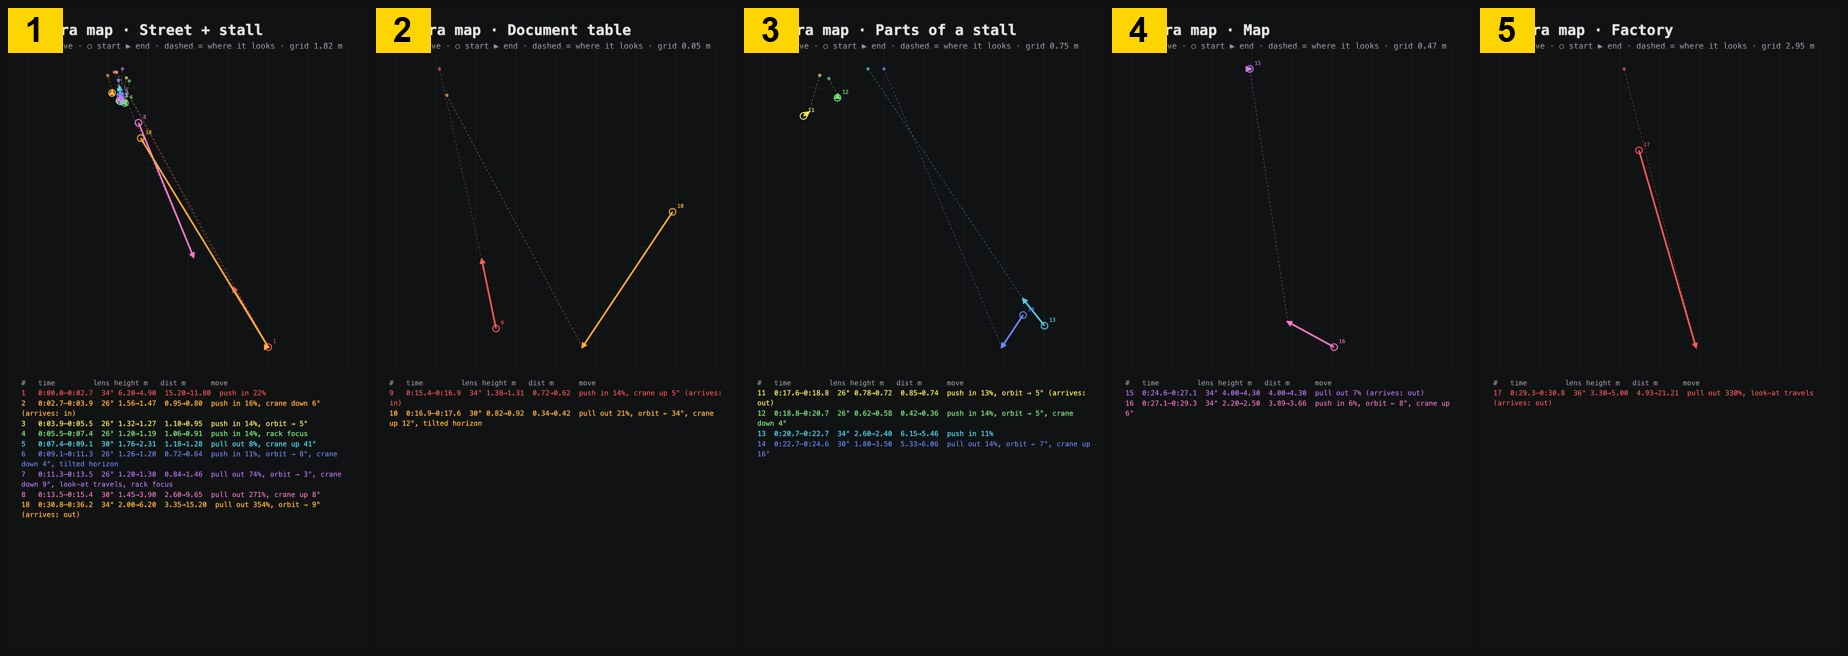
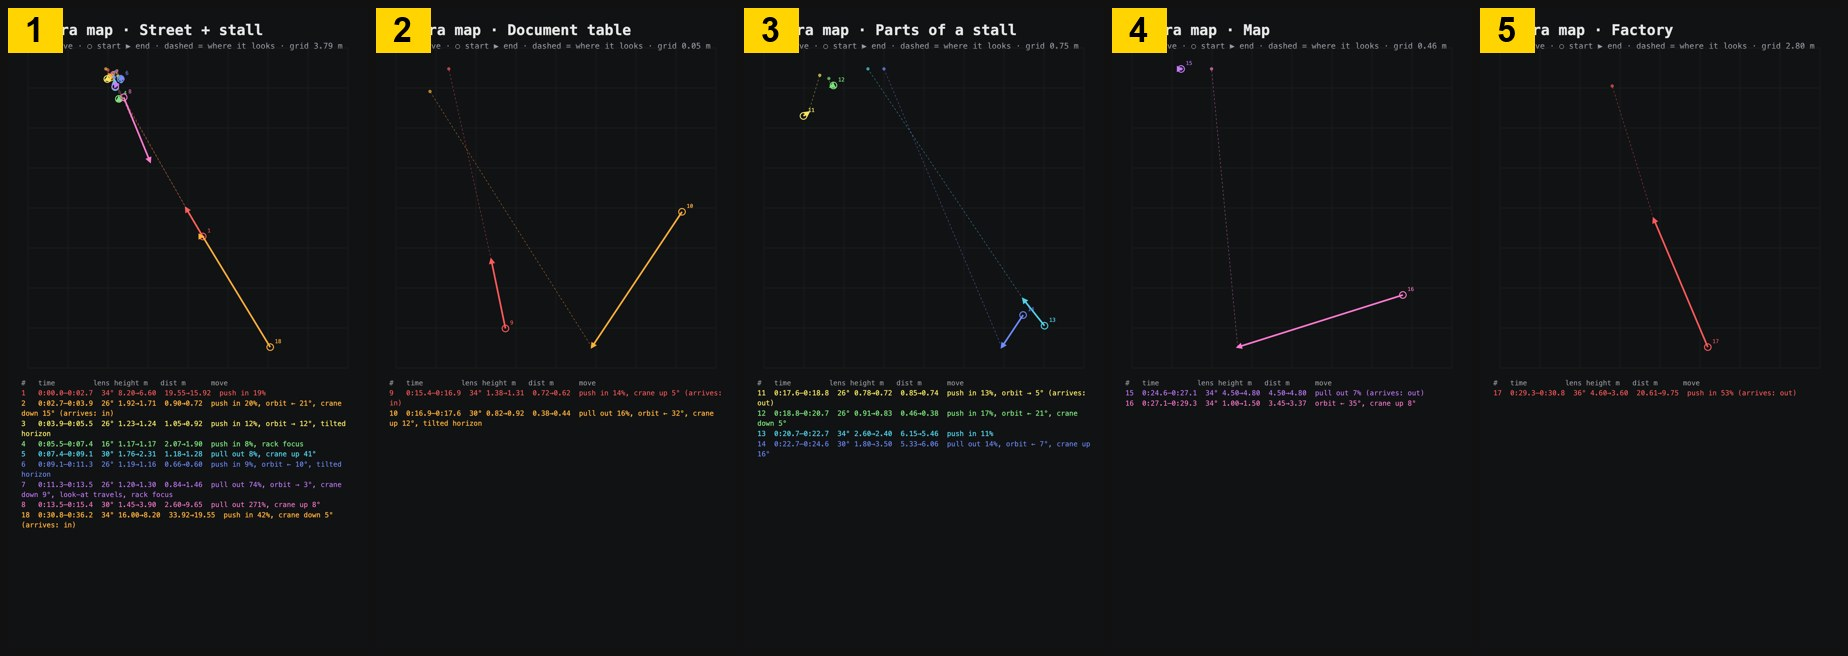
EX40 board v2: critic fixes (cart price wording + source, exposure on inserts, varied macro cameras, map clear of the counter, dive to the loop)

diff --git a/miki-explained/04_episodes/EX40_ramly-burger/build/film40.part.tsx b/miki-explained/04_episodes/EX40_ramly-burger/build/film40.part.tsx
@@ -32,7 +32,7 @@ const so40 = () => (SO40 ??= (() => {
     egg: rev([[0, 0], [0.058, 0], [0.061, 0.003], [0.057, 0.006], [0, 0.006]]),
   };
 })());
-const meat = (c = "#6a3f1d") => <StandardMaterial base_color={c} normal_map_texture={S("tex/grey_plaster_nor_gl_1k.jpg")} uv_transform={Affine2.fromScale([3, 3])} perceptual_roughness={0.72} />;
+const meat = (c = "#55301a") => <StandardMaterial base_color={c} normal_map_texture={S("tex/grey_plaster_nor_gl_1k.jpg")} uv_transform={Affine2.fromScale([3, 3])} perceptual_roughness={0.72} />;
 // a patty lying flat; tilt turns it up to face the camera (rx), glow = the yellow rim (accent)
 function Patty({ p, k, rx = 0, ry = 0, sc = 1, glowK = 0 }: { p: number[]; k: string; rx?: number; ry?: number; sc?: number; glowK?: number }) {
   return (
@@ -114,7 +114,7 @@ function Pack({ p, ry = 0, rx = 0, x = 0, k, sc = 1, glowK = 0 }: { p: number[];
 // the stall: the library cart (its coffee things hidden), a griddle, the yellow-and-maroon canopy with the logo, the tube light
 const CT = 1.057;                                 // cart top: Bottom_Cart max y in CoffeeCart_01.gltf
 function Stall({ o, ry = 0, real = 1, canopy = 1, lamp = 1, k = "st" }: { o: number[]; ry?: number; real?: number; canopy?: number; lamp?: number; k?: string }) {
-  const tint = mixHex("#4a4c54", "#ffffff", real), P: any[] = [];
+  const tint = mixHex("#4a4c54", "#b9bdc5", real), P: any[] = [];
   P.push(<Model key={k + "cart"} src={S("CoffeeCart_01/CoffeeCart_01.gltf")} position={[0, 0, 0]}>
     <StandardMaterial material="CoffeeCart_01_cart" base_color={tint} />
     <StandardMaterial material="CoffeeCart_01_props" base_color={Srgba.hex("#000000").with_alpha(0)} alpha_mode="Blend" />
@@ -191,8 +191,8 @@ function DocSet({ n }: { n: number }) {
   return (<>
     <Mesh3d transform={Transform.fromXyz(VD[0], FY - 0.02, VD[2])}><Cuboid half_size={[1.4, 0.02, 0.9]} /><StandardMaterial base_color="#1c1e22" normal_map_texture={S("tex/grey_plaster_nor_gl_1k.jpg")} perceptual_roughness={0.55} /></Mesh3d>
     <Card k="form" p={[VD[0], FY + 0.0013, VD[2]]} size={FS} tex="form" rx={-Math.PI / 2} rz={0.14} em={0.05}>
-      <WriteIn k="vfee" size={FS} cx={346 / 1024} cy={414 / 1448} w={0.5} h={128 / 1448} tex="v_fee" a={fee} />
-      <WriteIn k="vroy" size={FS} cx={346 / 1024} cy={604 / 1448} w={0.5} h={128 / 1448} tex="v_roy" a={roy} />
+      <WriteIn k="vfee" size={FS} cx={346 / 1024} cy={428 / 1448} w={0.5} h={128 / 1448} tex="v_fee" a={fee} />
+      <WriteIn k="vroy" size={FS} cx={346 / 1024} cy={618 / 1448} w={0.5} h={128 / 1448} tex="v_roy" a={roy} />
       <Under k="ufee" size={FS} u0={90 / 1024} u1={0.42} v={455 / 1448} a={ufee} />
       <Under k="uroy" size={FS} u0={90 / 1024} u1={0.42} v={645 / 1448} a={n === 10 ? on(52, 0.3, 0.12) : 0} />
     </Card>
@@ -246,7 +246,7 @@ const VF = [0, 0, -300];
 function FactorySet() {
   return (<>
     <Mesh3d transform={Transform.fromXyz(VF[0], -0.02, VF[2])}><Cuboid half_size={[60, 0.02, 60]} /><StandardMaterial base_color="#26282d" normal_map_texture={S("tex/asphalt_02_nor_gl_1k.jpg")} uv_transform={Affine2.fromScale([30, 30])} perceptual_roughness={0.7} /></Mesh3d>
-    <Model src={S("factory_a.glb")} position={VF as any} scale={[0.012, 0.012, 0.012]}><StandardMaterial base_color="#55585f" /></Model>
+    <Model src={S("factory_a.glb")} position={VF as any} scale={[0.012, 0.012, 0.012]}><StandardMaterial base_color="#3b3d44" base_color_texture={null as any} normal_map_texture={S("tex/grey_plaster_nor_gl_1k.jpg")} perceptual_roughness={0.9} /></Model>
     <Card k="fsg" p={[VF[0] + 0.3, 3.0, VF[2] + 2.75]} size={[3.2, 0.8]} tex="factory_sign" em={1.1 * on(91, 0.4, -0.3)} />
     <DirectionalLight color="#a7bdff" transform={Transform.fromXyz(VF[0] - 20, 18, VF[2] + 12).lookingAt(VF as any)} illuminance={2600} shadow_maps_enabled soft_shadow_size={0.5} />
     <SpotLight transform={Transform.fromXyz(VF[0] + 4, 9, VF[2] + 18).lookingAt([VF[0] + 0.7, 3, VF[2] + 2.7])} intensity={4e6 * (0.3 + 0.7 * on(91, 0.4, -0.3))} outer_angle={0.35} inner_angle={0.2} color="#ffe6c2" range={30} />
@@ -259,48 +259,48 @@ function FactorySet() {
 type Pose = { p: number[]; l: number[] };
 type Tag = { at: number[]; x: number; y: number; cap: string; big?: string; sub?: string; t: number };
 type Setup = { set: string; a: Pose; b: Pose; fov?: number; fs?: number; up?: number[]; tr?: "in" | "out" | "side"; fd?: () => number | null; tags?: Tag[];
-  count?: { v: () => string; unit: string; t?: number }; note?: string; src?: string };
+  count?: { v: () => string; unit: string; t?: number }; note?: string; src?: string; ex?: number };
 const fromT = (l: number[], dir: number[], d: number) => { const k = Math.hypot(dir[0], dir[1], dir[2]); return [l[0] + (dir[0] / k) * d, l[1] + (dir[1] / k) * d, l[2] + (dir[2] / k) * d]; };
 const dist3 = (a: number[], b: number[]) => Math.hypot(a[0] - b[0], a[1] - b[1], a[2] - b[2]);
 const C = (p: number[], l: number[]): Pose => ({ p, l });
 const num = (a: number, b: number, t0: number, t1: number, d = 0) => lerp(a, b, cl((T - t0) / (t1 - t0))).toFixed(d);
 const thou = (a: number, b: number, t0: number, t1: number) => Math.round(lerp(a, b, cl((T - t0) / (t1 - t0)))).toLocaleString("en-US");
 const SL = [SX + 0.1, 1.0, SZ];
-const P1A = C([SX + 7.0, 6.2, SZ + 12.5], SL);
+const P1A = C([SX + 8.6, 8.2, SZ + 15.5], [SX - 0.6, 1.5, SZ - 0.4]);
 const PKL = [PKP[0], CT + 0.12, PKP[2]], GC = [SX + 0.19, CT, SZ + 0.38], BGL = [BGP[0], CT + 0.045, BGP[2]];
-const FEE = [VD[0] - 0.01, FY, VD[2] - 0.05], ROY = [VD[0], FY, VD[2] - 0.015];
+const FEE = [VD[0] - 0.01, FY, VD[2] - 0.05], ROY = [VD[0] - 0.035, FY, VD[2] - 0.02];
 const SRC_JG = "price: Jaya Grocer online, 13 Nov 2026", SRC_BL = "source: CompareHero · franchise-info.my (blogs)", SRC_VP = "Vulcan Post, 19 Nov 2020 (company figures)";
 const SETUPS: Setup[] = [
-  /* 1 */ { set: "s", a: P1A, b: C([SX + 5.4, 4.9, SZ + 9.8], SL), fov: 34, fs: 8 },
-  /* 2 */ { set: "s", tr: "in", a: C(fromT(G, [0.25, 0.6, 1], 0.95), G), b: C(fromT([G[0], G[1] + 0.05, G[2]], [0.3, 0.48, 1], 0.8), [G[0], G[1] + 0.05, G[2]]), fov: 26, fs: 2.8 },
-  /* 3 */ { set: "s", a: C(fromT(PKL, [-0.3, 0.14, 1], 1.1), PKL), b: C(fromT(PKL, [-0.2, 0.1, 1], 0.95), PKL), fov: 26, fs: 2.4,
+  /* 1 */ { set: "s", a: P1A, b: C([SX + 7.0, 6.6, SZ + 12.8], [SX - 0.4, 1.4, SZ - 0.3]), fov: 34, fs: 8 },
+  /* 2 */ { set: "s", tr: "in", a: C(fromT(G, [0.35, 1.6, 0.5], 0.9), G), b: C(fromT([G[0], G[1] + 0.04, G[2]], [0.2, 1.15, 0.8], 0.72), [G[0], G[1] + 0.04, G[2]]), fov: 26, fs: 4, ex: 0.45 },
+  /* 3 */ { set: "s", a: C(fromT(PKL, [-1, 0.05, 0.3], 1.05), PKL), b: C(fromT(PKL, [-1, 0.08, 0.55], 0.92), PKL), fov: 26, fs: 2.4, up: [0.08, 1, 0], ex: 0.45,
             tags: [{ at: [PKP[0] - 0.05, CT + 0.2, PKP[2]], x: 70, y: 1330, cap: "RAMLY BURGER AYAM", big: "6 patties", sub: "420 g pack", t: W(15) }] },
-  /* 4 */ { set: "s", a: C([SX + 0.48, CT + 0.14, SZ + 1.4], [SX + 0.66, CT + 0.08, SZ + 0.36]), b: C([SX + 0.53, CT + 0.13, SZ + 1.3], [SX + 0.68, CT + 0.07, SZ + 0.4]), fov: 26, fs: 2.2, src: SRC_JG,
-            fd: () => lerp(0.98, 0.76, on(19, 0.4, -0.25)), count: { v: () => "RM" + num(0, 9.4, W(19) - 0.3, W(19) + 0.3, 2), unit: "6 chicken patties, 420 g", t: W(19) - 0.35 } },
+  /* 4 */ { set: "s", a: C([SX + 0.64, CT + 0.11, SZ + 2.45], [SX + 0.63, CT + 0.08, SZ + 0.38]), b: C([SX + 0.64, CT + 0.11, SZ + 2.3], [SX + 0.63, CT + 0.08, SZ + 0.4]), fov: 16, fs: 2.8, ex: 0.45, src: SRC_JG,
+            fd: () => lerp(2.1, 1.88, on(19, 0.4, -0.25)), count: { v: () => "RM" + num(0, 9.4, W(19) - 0.3, W(19) + 0.3, 2), unit: "6 chicken patties, 420 g", t: W(19) - 0.35 } },
   /* 5 */ { set: "s", a: C([GC[0] + 0.1, CT + 0.7, GC[2] + 0.95], GC), b: C([GC[0] + 0.04, CT + 1.25, GC[2] + 0.28], GC), fov: 30, fs: 8, src: SRC_JG, up: [0, 1, 0],
-            count: { v: () => "RM" + num(9.4, 1.57, W(24) - 0.2, W(24) + 0.4, 2), unit: "each: RM9.40 ÷ 6", t: W(23) }, note: "shop price; stalls buy wholesale" },
-  /* 6 */ { set: "s", a: C(fromT(BGL, [0.12, 0.22, 1], 0.72), BGL), b: C(fromT(BGL, [0.26, 0.16, 1], 0.64), BGL), fov: 26, fs: 4, up: [-0.08, 1, 0],
+            count: { v: () => "RM" + num(9.4, 1.57, W(24) - 0.2, W(24) + 0.4, 2), unit: "each: RM9.40 ÷ 6", t: W(23) }, note: "shop price; stalls buy wholesale", ex: 0.42 },
+  /* 6 */ { set: "s", a: C(fromT(BGL, [1, 0.14, 0.3], 0.66), BGL), b: C(fromT(BGL, [1, 0.1, 0.5], 0.6), BGL), fov: 26, fs: 4, up: [-0.1, 1, 0], ex: 0.45,
             tags: [{ at: [BGP[0] + 0.05, CT + 0.034, BGP[2] + 0.03], x: 640, y: 1360, cap: "EGG", t: W(30) }, { at: [BGP[0] - 0.04, CT + 0.043, BGP[2] + 0.04], x: 70, y: 1300, cap: "CABBAGE", t: W(31) }, { at: [BGP[0], CT + 0.05, BGP[2] + 0.02], x: 640, y: 1250, cap: "SAUCE", t: W(33) }] },
   /* 7 */ { set: "s", a: C([SX + 0.3, CT + 0.14, SZ + 1.25], [SX + 0.4, CT + 0.08, SZ + 0.42]), b: C([SX + 0.28, CT + 0.24, SZ + 1.3], [SX + 0.37, 1.42, SZ - 0.15]), fov: 26, fs: 2.4,
-            fd: () => lerp(0.84, 1.48, on(38, 0.5, -0.1)), tags: [{ at: [SGN[0], CT + 0.09, SGN[2]], x: 620, y: 1330, cap: "AT THE STALL", big: "RM5 or more", sub: "menu: an illustration", t: W(37) }] },
+            fd: () => lerp(0.84, 1.48, on(38, 0.5, -0.1)), ex: 0.45, tags: [{ at: [SGN[0], CT + 0.09, SGN[2]], x: 620, y: 1330, cap: "AT THE STALL", big: "RM5 or more", t: W(37) }] },
   /* 8 */ { set: "s", a: C([SX + 1.1, 1.45, SZ + 2.3], [SX, 0.95, SZ]), b: C([SX + 3.6, 3.9, SZ + 8.4], [SX, 0.8, SZ]), fov: 30, fs: 8 },
   /* 9 */ { set: "d", tr: "in", a: C(fromT(FEE, [0.12, 1, 0.55], 0.72), FEE), b: C(fromT(FEE, [0.1, 1, 0.45], 0.62), FEE), fov: 34, fs: 5.6, up: [0.15, 0, -1], src: SRC_BL, note: "form: an illustration" },
   /* 10 */ { set: "d", a: C([VD[0] + 0.3, FY + 0.07, VD[2] + 0.14], ROY), b: C([VD[0] + 0.18, FY + 0.17, VD[2] + 0.32], ROY), fov: 30, fs: 2.8, up: [0.14, 1, 0], src: SRC_BL },
   /* 11 */ { set: "v", tr: "out", a: C(fromT([PK2[0], STH + 0.1, PK2[2]], [-0.4, 0.3, 1], 0.85), [PK2[0], STH + 0.1, PK2[2]]), b: C(fromT([PK2[0], STH + 0.1, PK2[2]], [-0.3, 0.24, 1], 0.74), [PK2[0], STH + 0.1, PK2[2]]), fov: 26, fs: 2.8, src: SRC_BL,
             tags: [{ at: [PK2[0], STH + 0.2, PK2[2]], x: 640, y: 1330, cap: "1 · PATTIES", sub: "from Ramly", t: W(56) }] },
-  /* 12 */ { set: "v", a: C(fromT([LIC[0], STH + 0.03, LIC[2]], [0.45, 0.4, 1], 0.42), [LIC[0], STH + 0.03, LIC[2]]), b: C(fromT([LIC[0], STH + 0.03, LIC[2]], [0.55, 0.32, 1], 0.36), [LIC[0], STH + 0.03, LIC[2]]), fov: 26, fs: 2.8, src: SRC_BL,
+  /* 12 */ { set: "v", a: C(fromT([LIC[0], STH + 0.03, LIC[2]], [0.2, 1, 0.3], 0.46), [LIC[0], STH + 0.03, LIC[2]]), b: C(fromT([LIC[0], STH + 0.03, LIC[2]], [0.1, 1, 0.45], 0.38), [LIC[0], STH + 0.03, LIC[2]]), fov: 26, fs: 4, up: [0.25, 0, -1], src: SRC_BL,
             tags: [{ at: [LIC[0], STH + 0.05, LIC[2]], x: 70, y: 1330, cap: "2 · HAWKER LICENCE", sub: "from your local council", t: W(60) }], note: "card: an illustration" },
   /* 13 */ { set: "v", a: C([VV[0] + 3.6, 2.6, VV[2] + 4.8], [VV[0] + 0.25, 0.7, VV[2]]), b: C([VV[0] + 3.2, 2.4, VV[2] + 4.3], [VV[0] + 0.3, 0.7, VV[2]]), fov: 34, fs: 5.6, src: SRC_BL,
-            tags: [{ at: [CART2[0] + 0.05, 0.62, CART2[2] + 0.53], x: 70, y: 1330, cap: "3 · A CART", big: "RM2,000–6,000", sub: "start-up estimates", t: W(70) }] },
+            tags: [{ at: [CART2[0] + 0.3, CT + 0.01, CART2[2] + 0.4], x: 70, y: 1330, cap: "3 · A CART", big: "a few thousand ringgit", sub: "blog and forum estimates: RM2,000–6,000", t: W(70) }] },
   /* 14 */ { set: "v", a: C([VV[0] + 3.2, 1.8, VV[2] + 4.6], [VV[0] + 0.55, 1.35, VV[2]]), b: C([VV[0] + 2.8, 3.5, VV[2] + 5.2], [VV[0] + 0.6, 1.3, VV[2]]), fov: 30, fs: 5.6,
             tags: [{ at: [CART2[0] + 0.05, 2.1, CART2[2] + 0.72], x: 70, y: 1330, cap: "= A RAMLY BURGER STALL", t: W(76) }] },
-  /* 15 */ { set: "m", tr: "out", a: C([MX(109.2), 4.0, MZ(4.0) + 0.001], [MX(109.2), 0, MZ(4.0)]), b: C([MX(109.2), 4.3, MZ(4.0) + 0.001], [MX(109.2), 0, MZ(4.0)]), up: [-1, 0, -0.12], fov: 34, fs: 11, src: SRC_VP,
+  /* 15 */ { set: "m", tr: "out", a: C([MX(109.2) - 0.35, 4.5, MZ(4.0) + 0.001], [MX(109.2) - 0.35, 0, MZ(4.0)]), b: C([MX(109.2) - 0.35, 4.8, MZ(4.0) + 0.001], [MX(109.2) - 0.35, 0, MZ(4.0)]), up: [-1, 0, -0.12], fov: 34, fs: 11, src: SRC_VP,
             count: { v: () => "~" + thou(0, 30000, W(78) - 0.3, W(79) + 0.3), unit: "people selling Ramly burgers", t: W(77) }, note: "one dot ≈ 8 stalls · positions are illustrative" },
-  /* 16 */ { set: "m", a: C([MX(109.2) + 1.0, 2.2, MZ(4.0) + 3.3], [HUB[0], 0.4, HUB[2]]), b: C([MX(109.2) + 0.45, 2.5, MZ(4.0) + 3.0], [HUB[0], 0.45, HUB[2]]), fov: 34, fs: 8, src: SRC_VP,
-            tags: [{ at: HUB, x: 70, y: 1330, cap: "RAMLY", big: "sells to all of them", t: W(86) }] },
-  /* 17 */ { set: "f", tr: "out", a: C([VF[0] + 1.8, 3.3, VF[2] + 7.5], [VF[0] + 0.7, 3.0, VF[2] + 2.7]), b: C([VF[0] + 6, 5.0, VF[2] + 22], [VF[0] + 0.7, 3.8, VF[2] + 1.5]), fov: 36, fs: 8, src: "Vulcan Post 2020 · Malay Mail 2016",
+  /* 16 */ { set: "m", a: C([MX(109.2) + 2.2, 1.0, MZ(4.0) + 2.6], [HUB[0], 0.45, HUB[2]]), b: C([MX(109.2) + 0.3, 1.5, MZ(4.0) + 3.2], [HUB[0], 0.5, HUB[2]]), fov: 34, fs: 8, src: SRC_VP,
+            tags: [{ at: [HUB[0], HUB[1] - 0.15, HUB[2]], x: 70, y: 1330, cap: "RAMLY", big: "sells to all of them", t: W(86) }] },
+  /* 17 */ { set: "f", tr: "out", a: C([VF[0] + 7, 4.6, VF[2] + 21], [VF[0] + 0.4, 3.6, VF[2] + 1.5]), b: C([VF[0] + 3.2, 3.6, VF[2] + 12], [VF[0] + 0.3, 3.1, VF[2] + 2.7]), fov: 36, fs: 8, src: "Vulcan Post 2020 · Malay Mail 2016",
             count: { v: () => { const x = lerp(0, 1000, lin(W(91) - 0.35, W(92) + 0.2)); return x < 999.5 ? "RM" + Math.round(x) + "m" : "RM1 billion"; }, unit: "a year in sales (2019, company figure)", t: W(90) } },
-  /* 18 */ { set: "s", tr: "out", a: C([SX + 1.2, 2.0, SZ + 3.0], SL), b: P1A, fov: 34, fs: 8 },
+  /* 18 */ { set: "s", tr: "in", a: C([SX + 15, 16, SZ + 26], [SX - 0.6, 1.5, SZ - 0.4]), b: P1A, fov: 34, fs: 8 },
 ];
 function World({ n }: { n: number }) {
   const s = SETUPS[n - 1].set;
@@ -418,7 +418,7 @@ function Frame({ n, cam, dk, still, fast }: { n: number; cam: Cam; dk: number; s
       {fast ? <MotionBlur shutterAngle={1} samples={6} /> : null}
       <Bloom intensity={0.6} threshold={0.9} />
       <AmbientOcclusion quality="high" />
-      <ToneMapping mode="agx" exposure={street ? 0.65 : 0.55} />
+      <ToneMapping mode="agx" exposure={SETUPS[n - 1].ex ?? (street ? 0.65 : 0.55)} />
       <Grade temperature={0.0} vignette={0.28} midtones={{ saturation: 1.05, contrast: 1.12, gamma: 1, gain: 1, lift: 0 }} />
       <World n={n} />
       <Overlay n={n} cam={cam} still={still} />

diff --git a/miki-explained/04_episodes/EX40_ramly-burger/build/timeline.py b/miki-explained/04_episodes/EX40_ramly-burger/build/timeline.py
@@ -11,7 +11,7 @@ DISPLAY = {   # caption text; * marks the key word (selection box)
  "L04": "And here's what most people don't know. There's *no franchise fee. *No royalty.",
  "L05": "You buy the patties, get a *hawker licence from your council, and a *cart for a few thousand ringgit. That's a Ramly Burger stall.",
  "L06": "About *30,000 people did exactly that.",
- "L07": "Ramly sells to every one of them. About *RM1 billion a year, and it never paid for a single *cart.",
+ "L07": "Ramly sells to every one of them. About *RM1 *billion a year, and it never paid for a single *cart.",
 }
 A = Path("audio"); words = json.loads((A / "words.json").read_text())
 TEMPO = 1.0; LONG = 0.35; KEEP = 0.30    # trim long pauses only; the user's pace kept

diff --git a/miki-explained/04_episodes/EX40_ramly-burger/build/est_tl.py b/miki-explained/04_episodes/EX40_ramly-burger/build/est_tl.py
@@ -9,7 +9,7 @@ DISPLAY = {   # caption text; * marks the key word (selection box)
  "L04": "And here's what most people don't know. There's *no franchise fee. *No royalty.",
  "L05": "You buy the patties, get a *hawker licence from your council, and a *cart for a few thousand ringgit. That's a Ramly Burger stall.",
  "L06": "About *30,000 people did exactly that.",
- "L07": "Ramly sells to every one of them. About *RM1 billion a year, and it never paid for a single *cart.",
+ "L07": "Ramly sells to every one of them. About *RM1 *billion a year, and it never paid for a single *cart.",
 }
 t, caps, lines = 0.25, [], {}
 for L, txt in DISPLAY.items():

diff --git a/miki-explained/04_episodes/EX40_ramly-burger/episode.md b/miki-explained/04_episodes/EX40_ramly-burger/episode.md
@@ -1,6 +1,6 @@
 # EX40 — Ramly Burger doesn't sell burgers
 
-Status: **script v2 APPROVED (2026-11-13). Shot list v1 + art direction waiting for "ok".** Signature sound: user picked C, start softened → `02_kit/brand/sonic-logo/sig_C_boom_v2.wav`. v1 notes from the user: say
+Status: **board v2 (2026-11-13) waiting for the user: `stills/board_v2.jpg`, camera map `stills/camera_map.jpg`.** Voice in (user, ElevenLabs, 36.2 s with end). Build: `build/assemble.sh` → `film40.tsx` (head40 + base40 = EX37 street + film40 + cammap). Script v2 approved; shot list ok'd. Signature sound: user picked C, start softened → `02_kit/brand/sonic-logo/sig_C_boom_v2.wav`. v1 notes from the user: say
 "Ramly Burger" not "Ramly"; give viewers knowledge (how easy it is to partner with Ramly); price checked at Jaya Grocer;
 signature outro sound (see `02_kit/brand/sonic-logo/`).
 Series: S09 Founder story / S08 money angle · Look: **Style A** (dark model world; the night Ramly stall is the warm real
@@ -20,7 +20,7 @@ suit the best" → A; length ~40 s like EX39; user records the voice, I find ref
 | F6 | Jaya Grocer online, 13 Nov 2026: Ramly chicken burger patties 420 g **RM9.40**, beef 420 g (6 × 70 g) **RM10.30** → chicken ≈ RM1.57 a patty | user's screenshot `refs/jaya_grocer_ramly_packs_2026-11-13.png` | ✅ retail (stalls buy wholesale, likely less) |
 | F7 | Stall burger ayam biasa RM5–7 | biayaitu.my (blog); Rakyat Post: "burger daging still below RM10" | ⚠ check at a stall |
 | F9 | No franchise fee, no royalty: anyone can open a Ramly Burger stall; the must-have is the local council hawker licence (lesen penjaja); stock from Ramly's wholesalers / Ramly Halal Mart | Lowyat forum (2012 thread), franchise-info.my, CompareHero (blogs) | 🟡 user 13 Nov: claim it as "from reputable blogs" → on screen during L04–L05: *Source: CompareHero, franchise-info.my* |
-| F8 | A stall's set-up (cart, gas stove, tools) is paid by the operator, ~RM5,000–6,000 | comparehero.my, franchise-info.my (blogs) | ⚠ |
+| F8 | A stall's set-up (cart, gas stove, tools) is paid by the operator: ~RM5,000–6,000 (CompareHero, franchise-info.my); "at least RM2,000", wheeled stall ~RM1,200 (Lowyat forum) → on screen "a few thousand ringgit", sub "blog and forum estimates: RM2,000–6,000" | comparehero.my, franchise-info.my (blogs); forum.lowyat.net/topic/2316264 | ⚠ |
 
 ## Script draft v2 (~115 words, ≈ 38–40 s)
 
